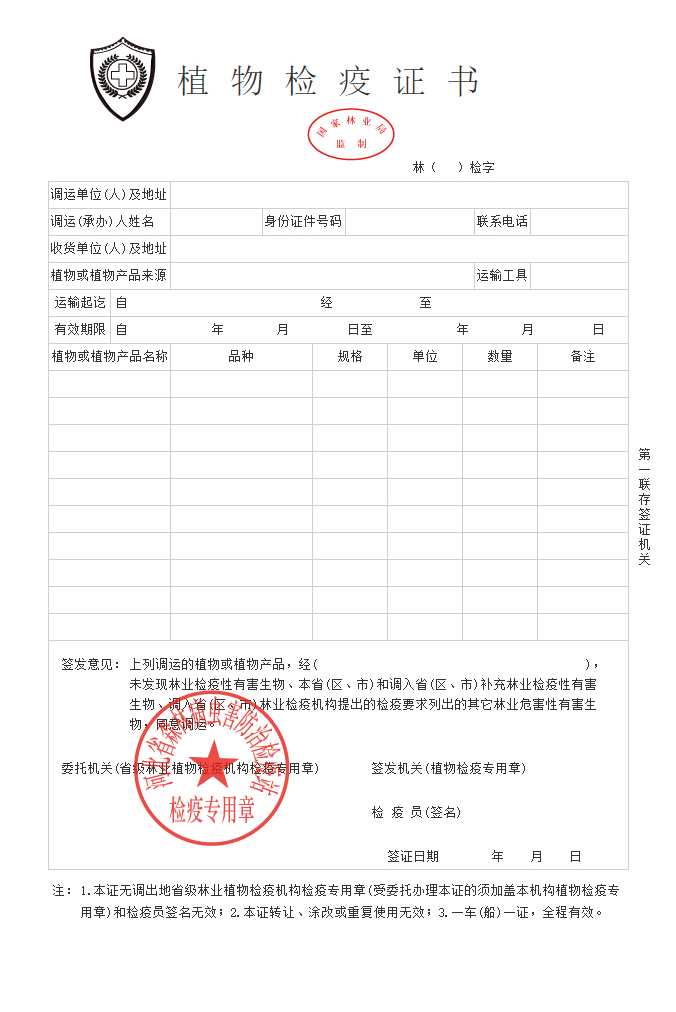
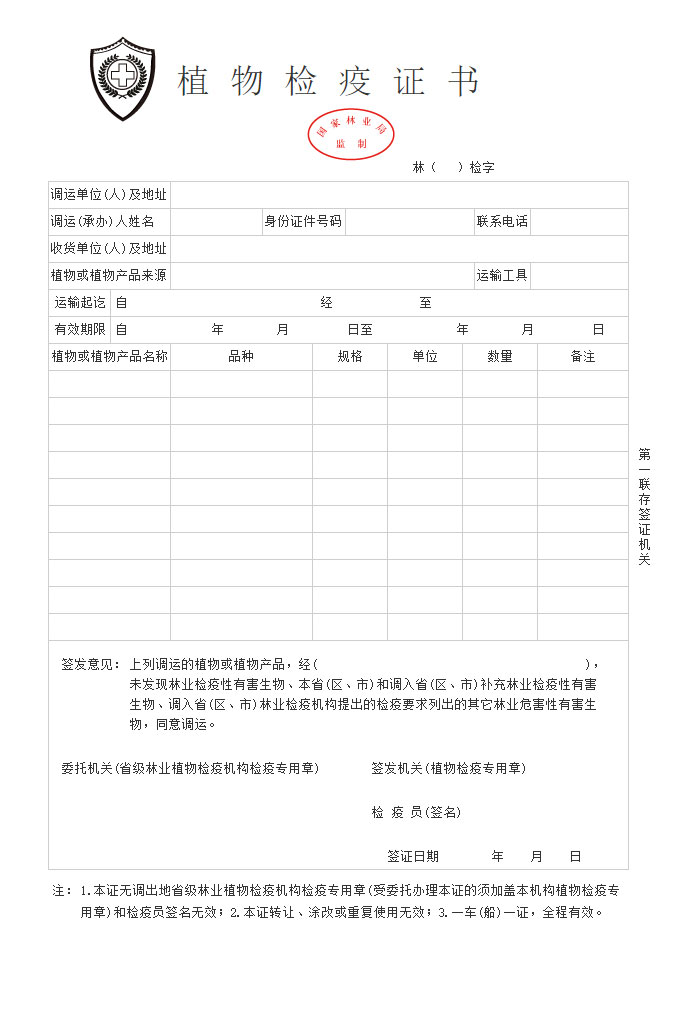
update

Changed region(s): [[0.1864, 0.6739, 0.4349, 0.8577], [0.4349, 0.0613, 0.466, 0.0919], [0.3417, 0.0613, 0.3728, 0.0919]]

diff --git a/templates/admin/plant_prview.html b/templates/admin/plant_prview.html
@@ -1,0 +1,10 @@
+<!DOCTYPE html>
+<html lang="en">
+<head>
+    <meta charset="UTF-8">
+    <title>植物检疫证书</title>
+</head>
+<body style="text-align: center">
+<img src="/manage/plant_preview_img?id={{ id }}" height="100%">
+</body>
+</html>

diff --git a/app.py b/app.py
@@ -11,7 +11,8 @@ from tornado.options import define, options
 
 from app.modules.manage import MIndex, LogoutHandler, LoginHandler, ChangePasswordHandler
 
-from app.modules.manage import plant_list, plant_detail, plant_preview, plant_qr, plant_print, plant_state
+from app.modules.manage import plant_list, plant_detail, plant_preview, plant_qr, plant_print, plant_state, \
+    plant_preview_img
 
 define("port", default=8000, help="run on the given port", type=int)
 define("dev", type=bool, help="dev mode switch", default=True)
@@ -33,6 +34,7 @@ class Application(tornado.web.Application):
             (r"/manage/plant_print", plant_print, None, 'plant_print'),
             (r"/manage/plant_qr", plant_qr, None, 'plant_qr'),
             (r"/manage/plant_state", plant_state, None, 'plant_state'),
+            (r"/manage/plant_preview_img", plant_preview_img, None, 'plant_preview_img'),
 
         ]
 

diff --git a/app/modules/manage.py b/app/modules/manage.py
@@ -229,6 +229,12 @@ def logo_watermark(img, water_img):
 class plant_preview(ManageBaseHandler):
     def get(self):
         id = int(self.get_argument("id", 0))
+        self.render('admin/plant_prview.html', id=id)
+
+
+class plant_preview_img(ManageBaseHandler):
+    def get(self):
+        id = int(self.get_argument("id", 0))
         ct = self.application.db.get('select * from certificate where state=1 and id=%s', id)
 
         start_time = str(ct['start_time'])[:10].split('-')
@@ -288,6 +294,7 @@ class plant_preview(ManageBaseHandler):
             data = stream.getvalue()
             self.set_header("Content-Type", "image/JPEG")
             self.set_header("Content-Length", len(data))
+            self.set_header("title", '123')
         self.write(data)
 
 
